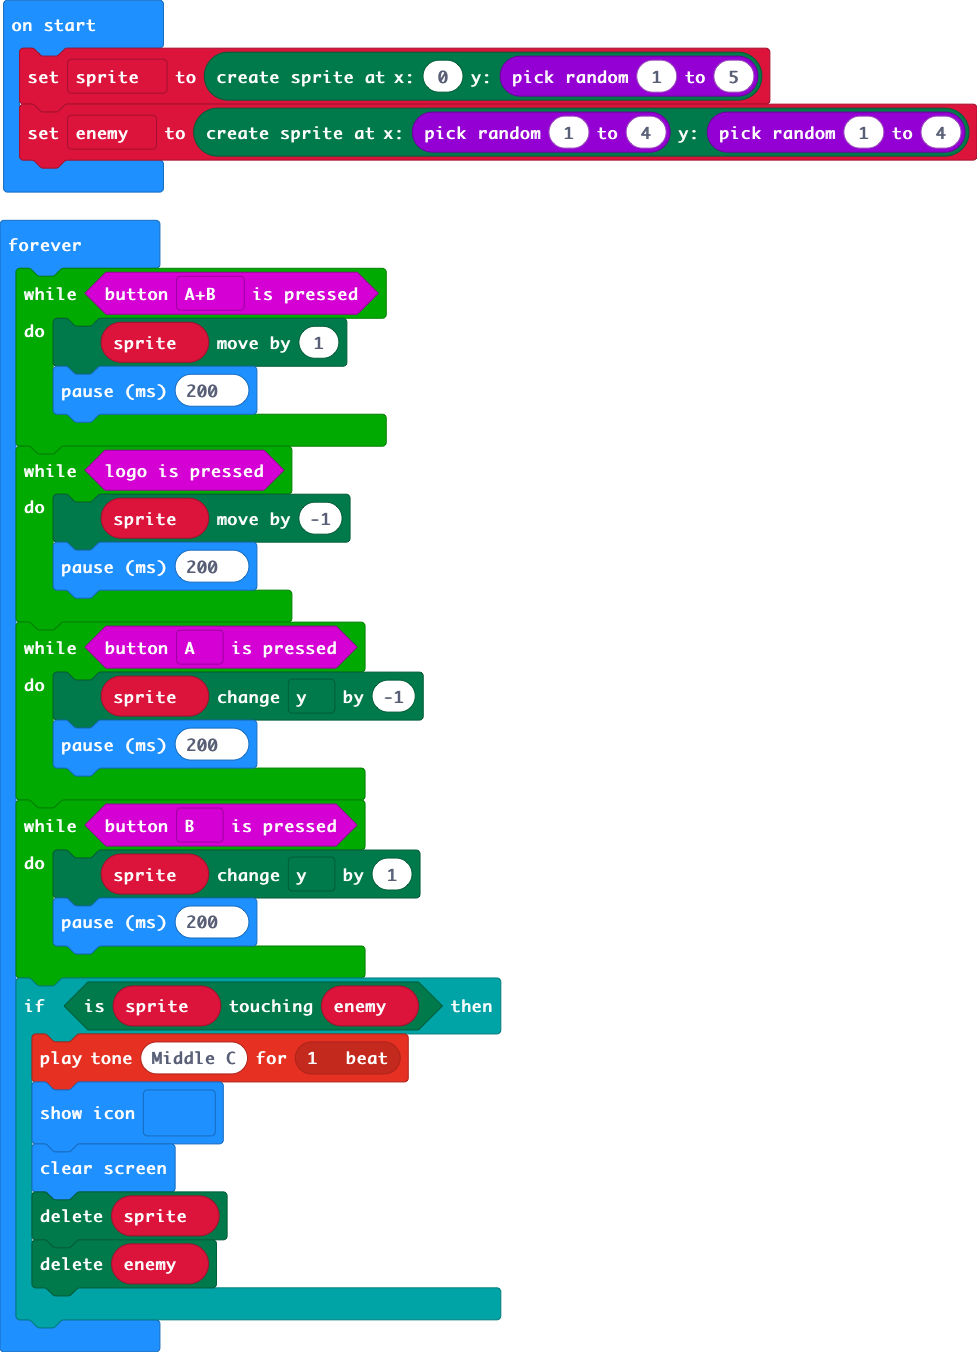
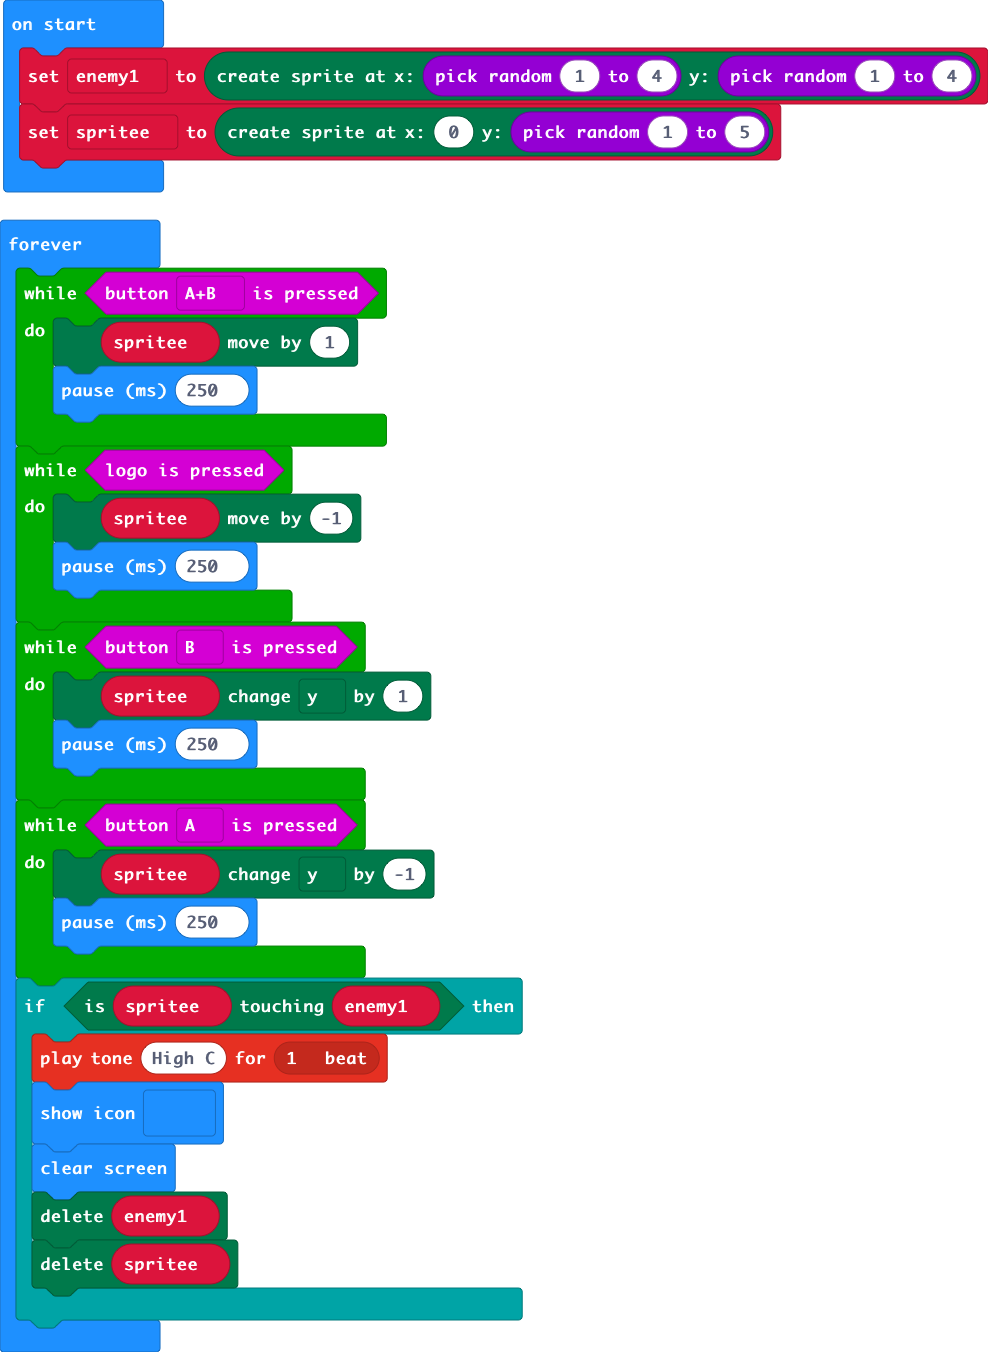
Update main.blocks, main.ts

diff --git a/main.ts b/main.ts
@@ -1,27 +1,27 @@
-let sprite = game.createSprite(0, randint(1, 5))
-let enemy = game.createSprite(randint(1, 4), randint(1, 4))
+let enemy1 = game.createSprite(randint(1, 4), randint(1, 4))
+let spritee = game.createSprite(0, randint(1, 5))
 basic.forever(function () {
     while (input.buttonIsPressed(Button.AB)) {
-        sprite.move(1)
-        basic.pause(200)
+        spritee.move(1)
+        basic.pause(250)
     }
     while (input.logoIsPressed()) {
-        sprite.move(-1)
-        basic.pause(200)
-    }
-    while (input.buttonIsPressed(Button.A)) {
-        sprite.change(LedSpriteProperty.Y, -1)
-        basic.pause(200)
+        spritee.move(-1)
+        basic.pause(250)
     }
     while (input.buttonIsPressed(Button.B)) {
-        sprite.change(LedSpriteProperty.Y, 1)
-        basic.pause(200)
+        spritee.change(LedSpriteProperty.Y, 1)
+        basic.pause(250)
     }
-    if (sprite.isTouching(enemy)) {
-        music.playTone(262, music.beat(BeatFraction.Whole))
+    while (input.buttonIsPressed(Button.A)) {
+        spritee.change(LedSpriteProperty.Y, -1)
+        basic.pause(250)
+    }
+    if (spritee.isTouching(enemy1)) {
+        music.playTone(523, music.beat(BeatFraction.Whole))
         basic.showIcon(IconNames.Happy)
         basic.clearScreen()
-        sprite.delete()
-        enemy.delete()
+        enemy1.delete()
+        spritee.delete()
     }
 })
